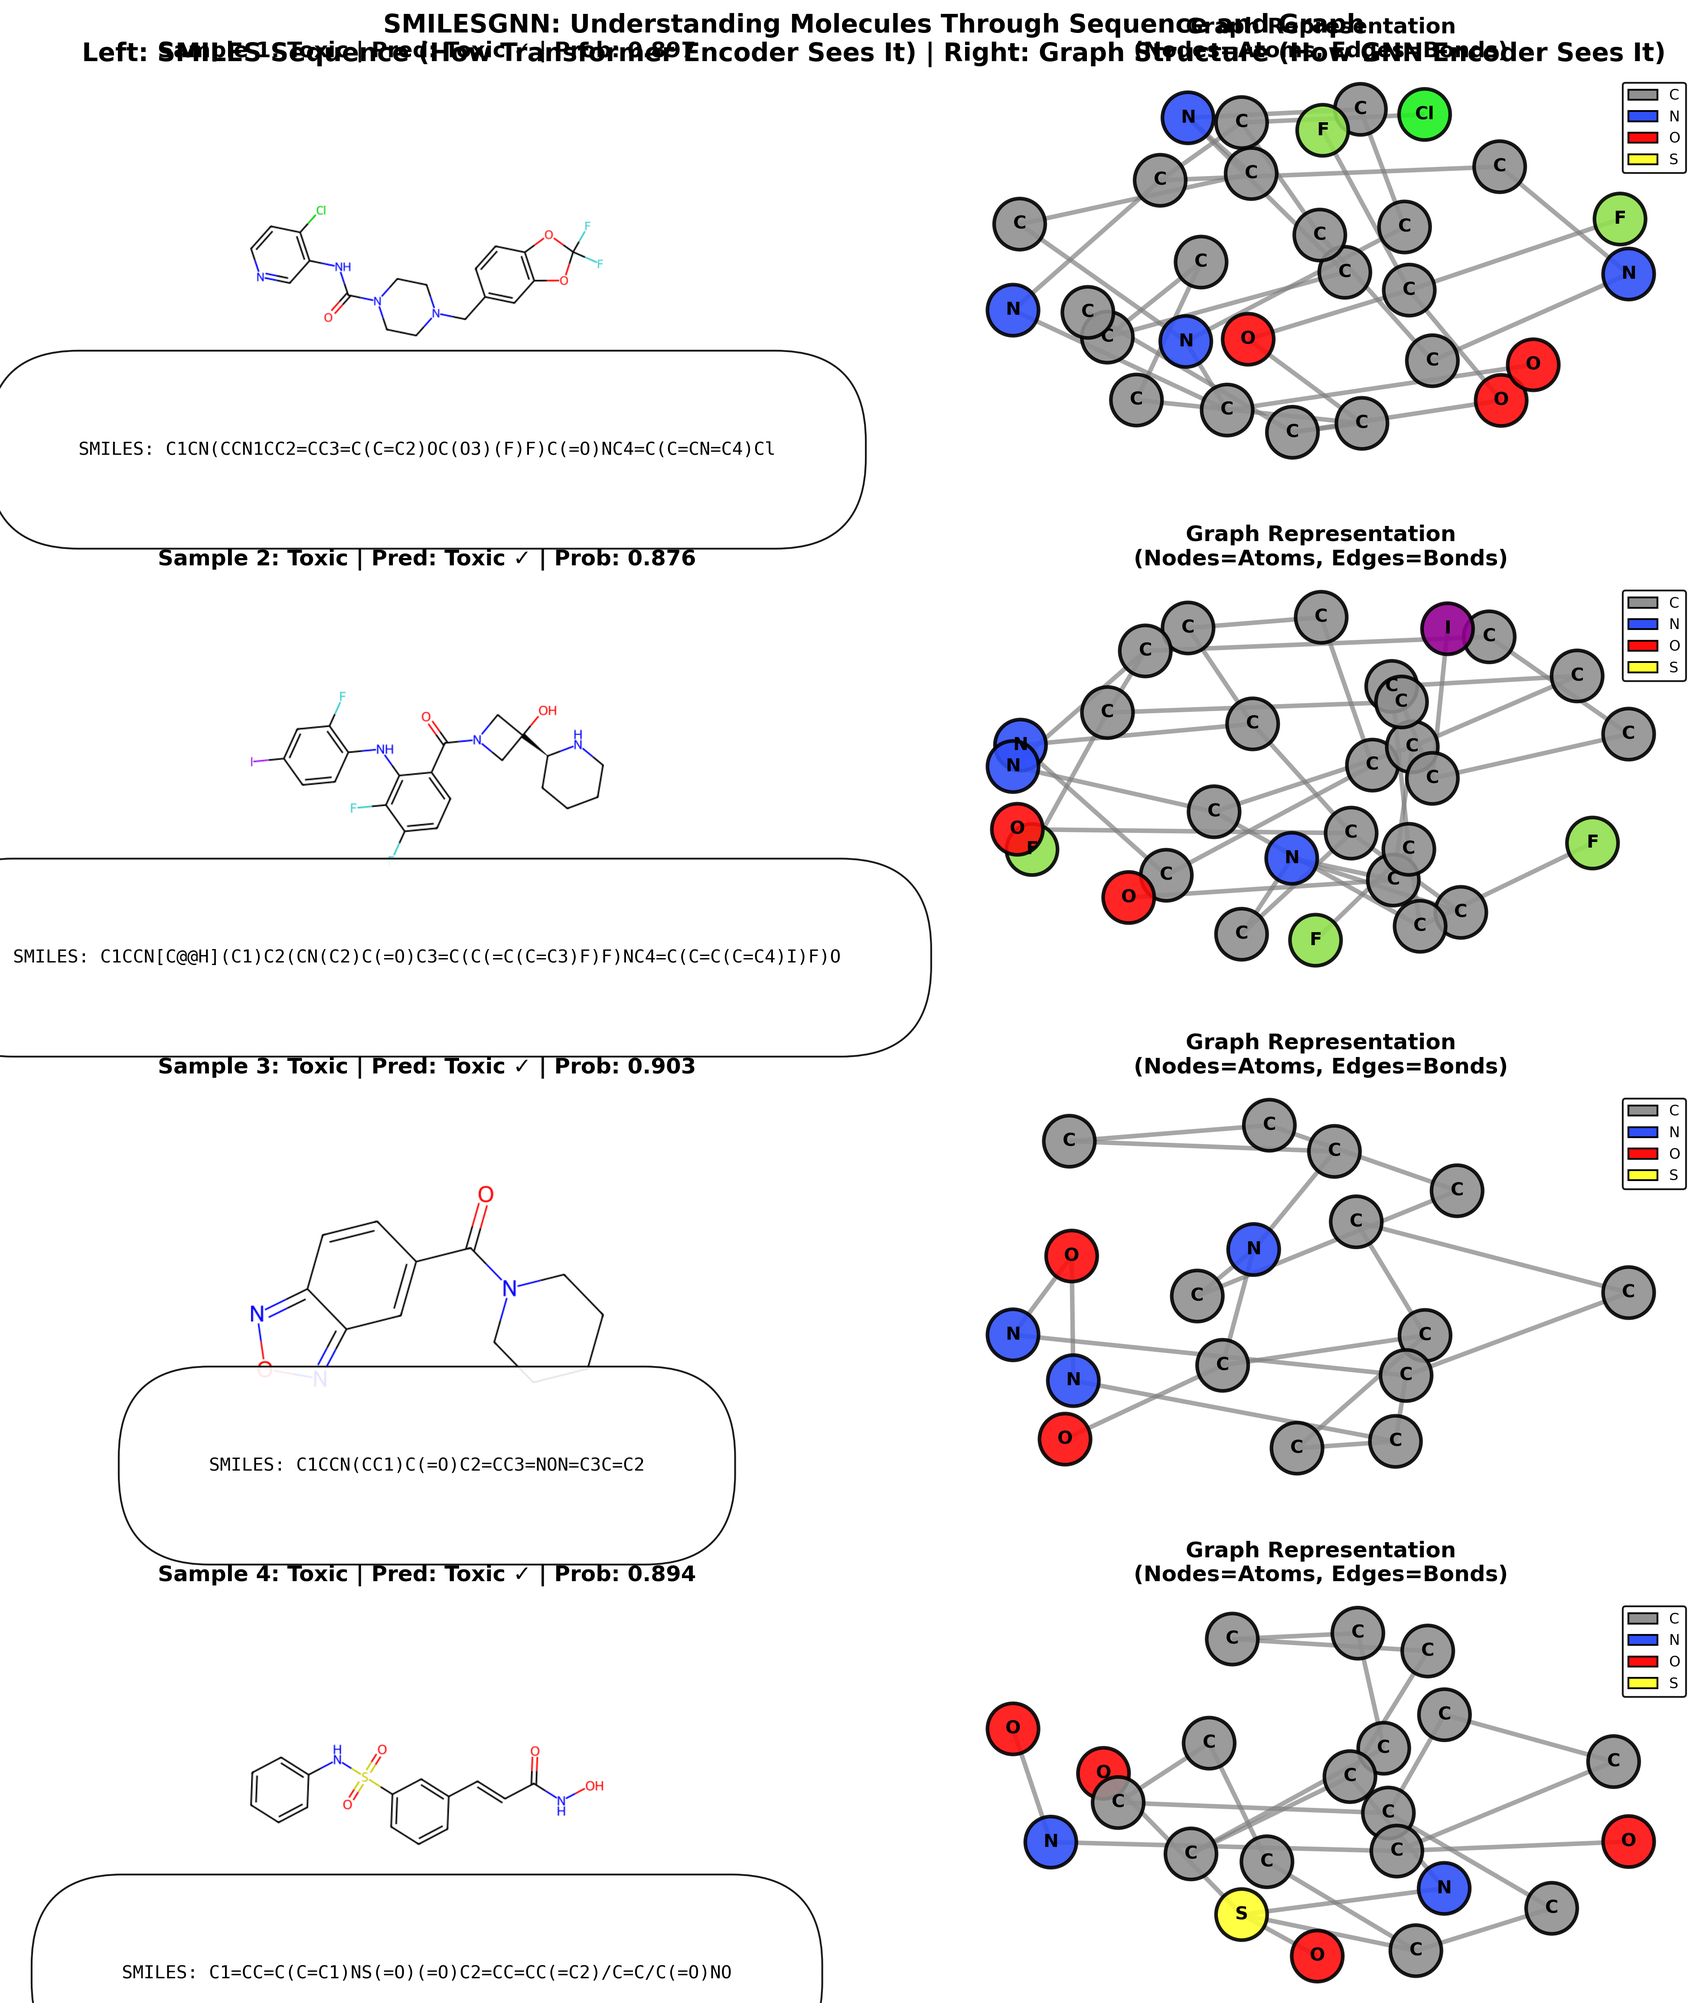
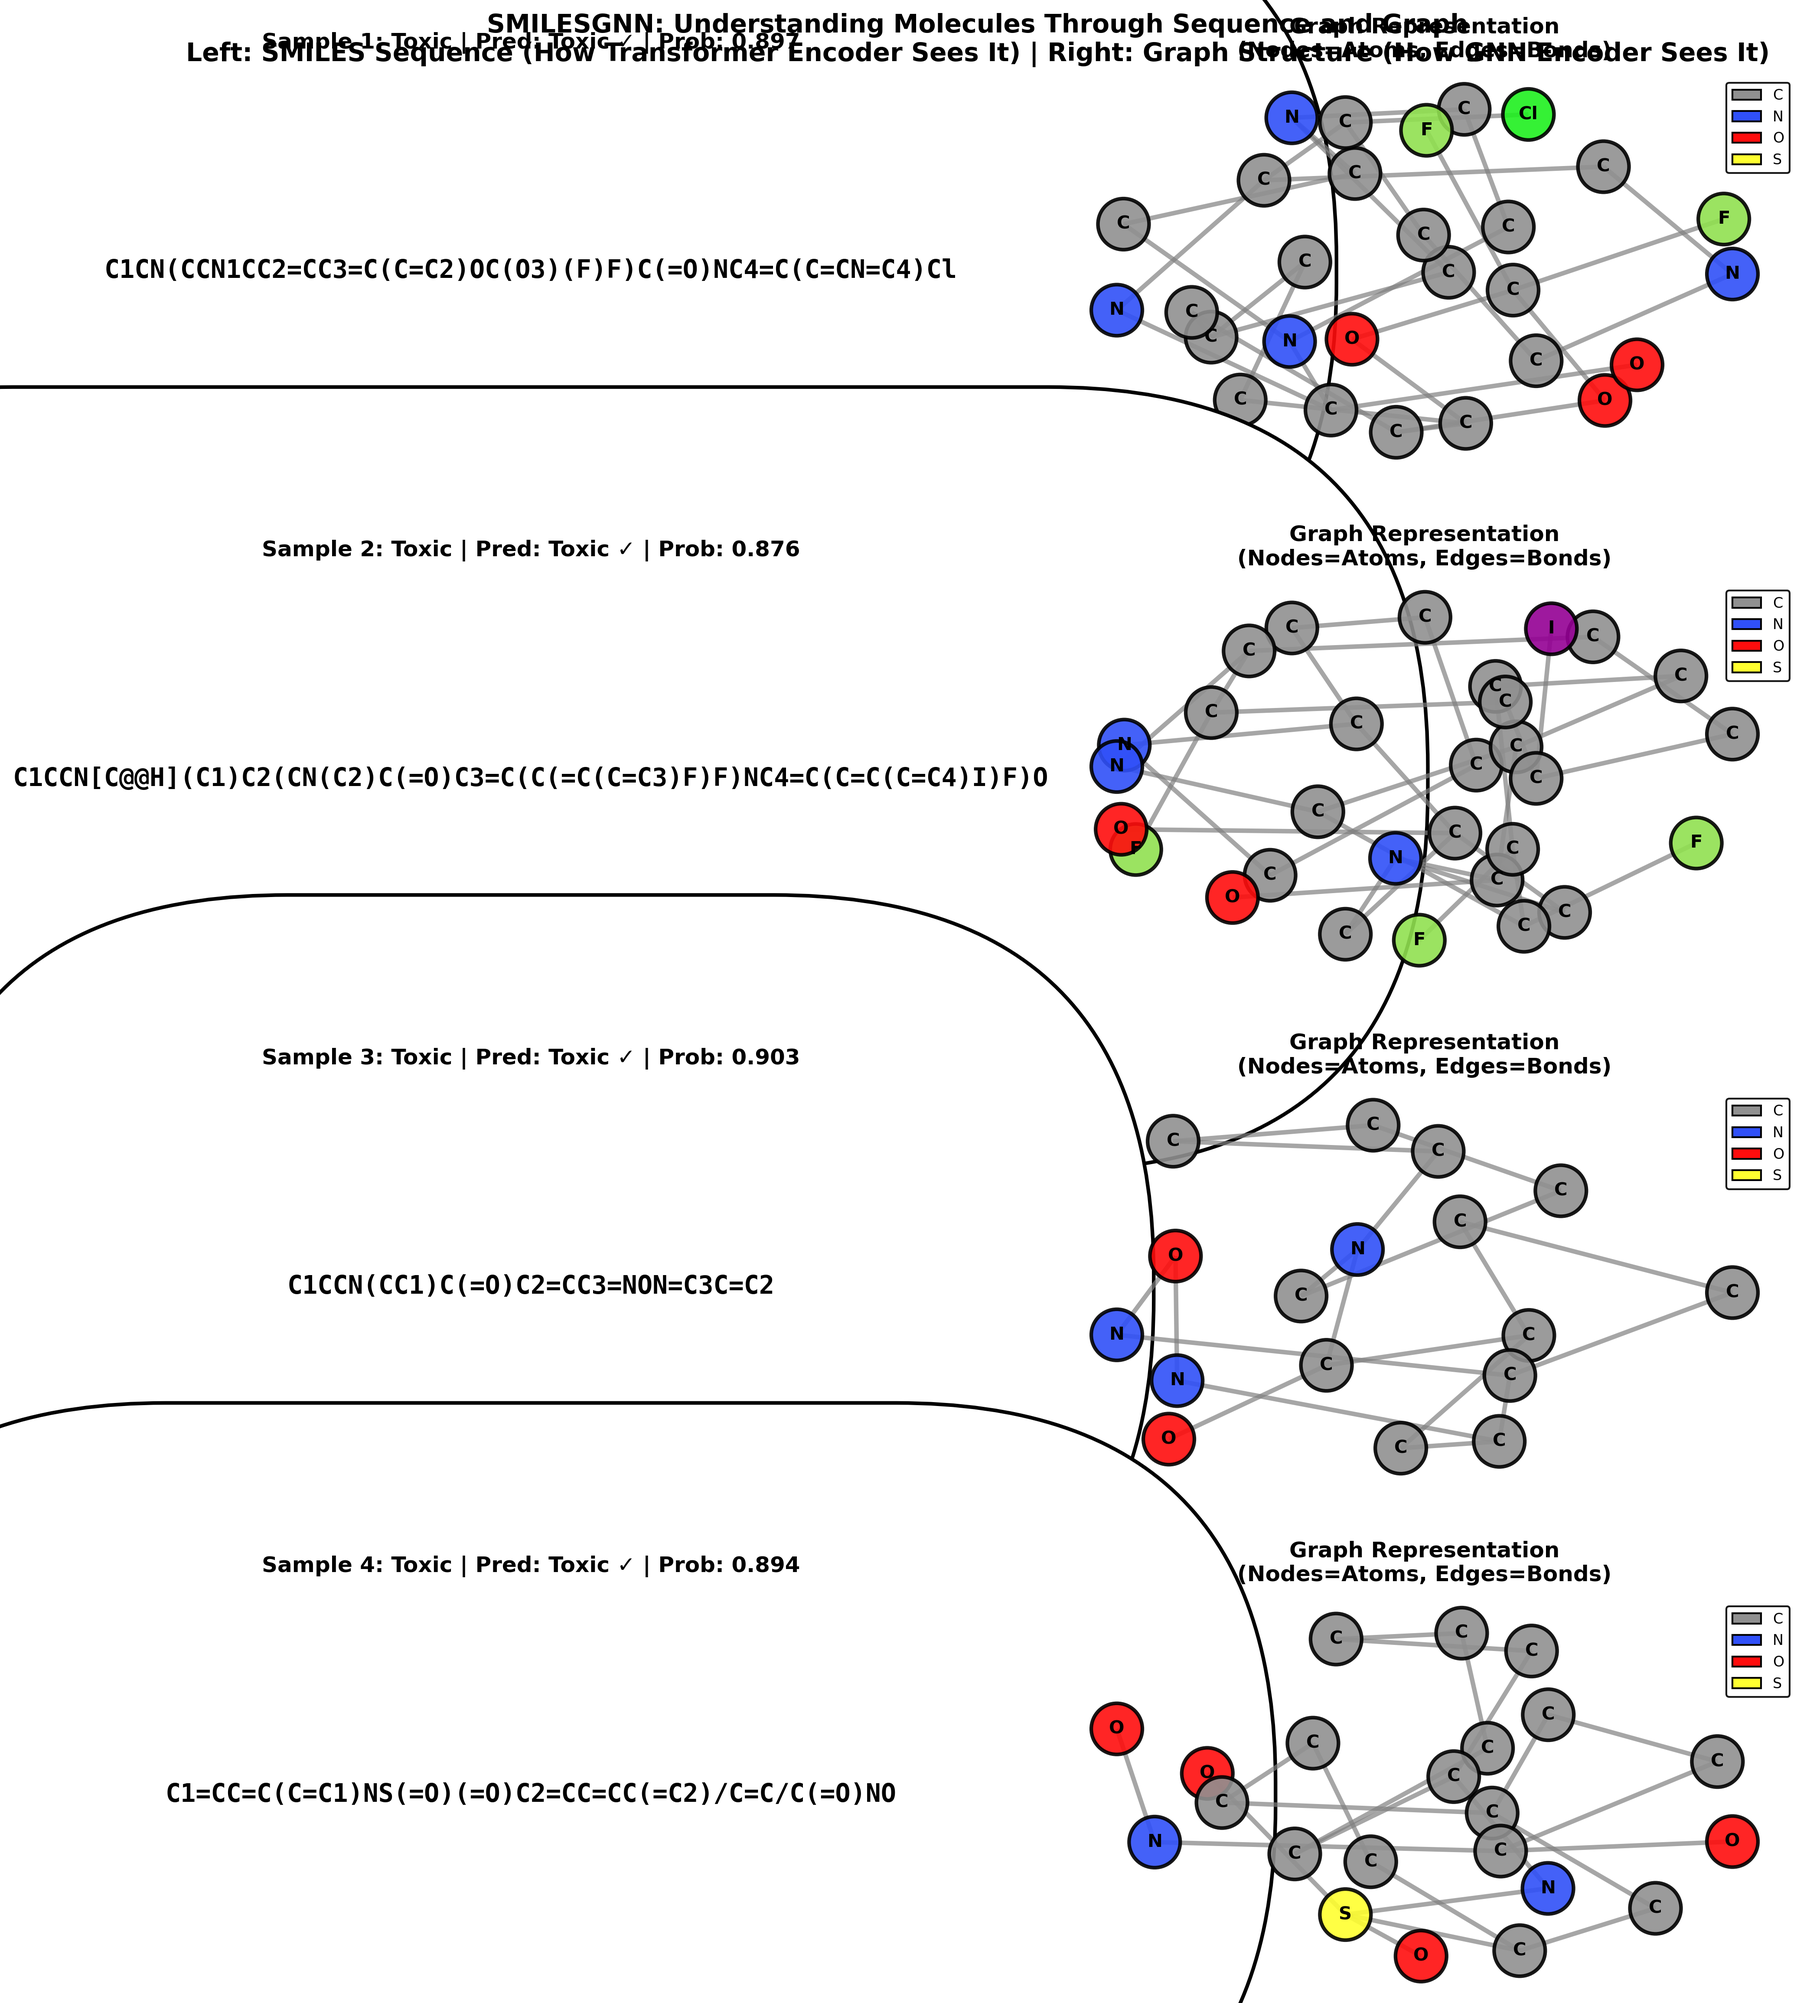
Remove molecular structure from SMILES visualization, show text only

diff --git a/scripts/generate_smiles_graph_pairs.py b/scripts/generate_smiles_graph_pairs.py
@@ -70,37 +70,14 @@ def get_node_color(atomic_num):
 
 
 def visualize_smiles_sequence(smiles, ax, title="SMILES Sequence"):
-    """Visualize SMILES sequence as text with molecular structure."""
-    mol = Chem.MolFromSmiles(smiles)
-    if mol is None:
-        ax.text(0.5, 0.5, f"Invalid SMILES:\n{smiles}", 
-               ha='center', va='center', transform=ax.transAxes,
-               fontsize=12, family='monospace',
-               bbox=dict(boxstyle='round', facecolor='lightgray', alpha=0.5))
-        ax.axis('off')
-        return
-    
-    # Draw molecule using RDKit
-    try:
-        img = Draw.MolToImage(mol, size=(500, 500))
-        ax.imshow(img)
-    except:
-        # Fallback to text if rendering fails
-        ax.text(0.5, 0.8, "SMILES:", ha='center', va='top', transform=ax.transAxes,
-               fontsize=14, fontweight='bold')
-        ax.text(0.5, 0.6, smiles, ha='center', va='center', transform=ax.transAxes,
-               fontsize=11, family='monospace',
-               bbox=dict(boxstyle='round', facecolor='white', edgecolor='black', pad=10))
-        ax.axis('off')
-        return
-    
-    # Add SMILES text below molecule
-    ax.text(0.5, 0.02, f"SMILES: {smiles}", ha='center', va='bottom', 
-           transform=ax.transAxes, fontsize=10, family='monospace',
+    """Visualize SMILES sequence as text only (no molecular structure)."""
+    # Display SMILES text centered
+    ax.text(0.5, 0.5, smiles, ha='center', va='center', transform=ax.transAxes,
+           fontsize=14, family='monospace', fontweight='bold',
            bbox=dict(boxstyle='round', facecolor='white', edgecolor='black', 
-                    alpha=0.9, pad=5))
+                    linewidth=2, pad=15))
     
-    ax.set_title(title, fontsize=12, fontweight='bold', pad=10)
+    ax.set_title(title, fontsize=12, fontweight='bold', pad=15)
     ax.axis('off')
 
 
